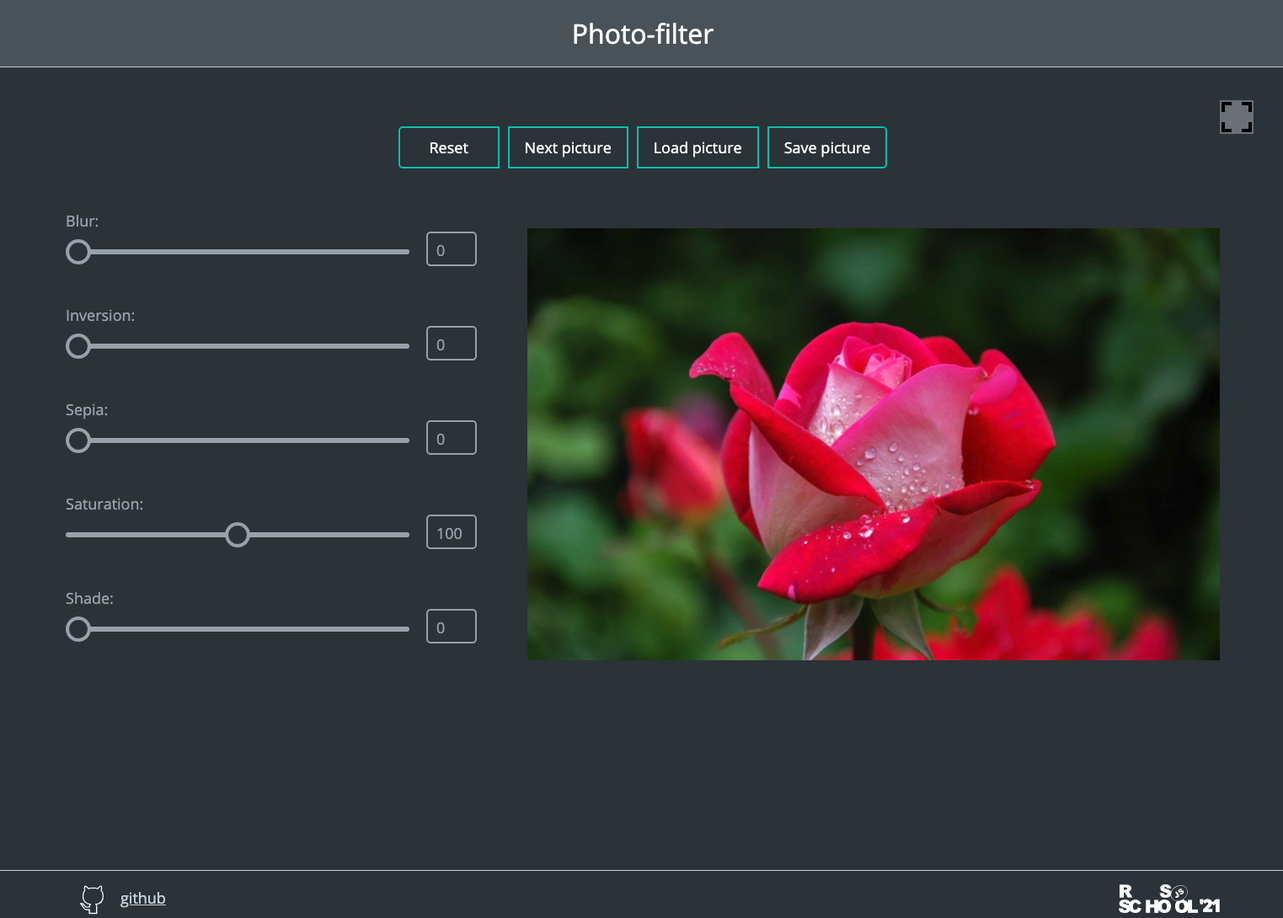
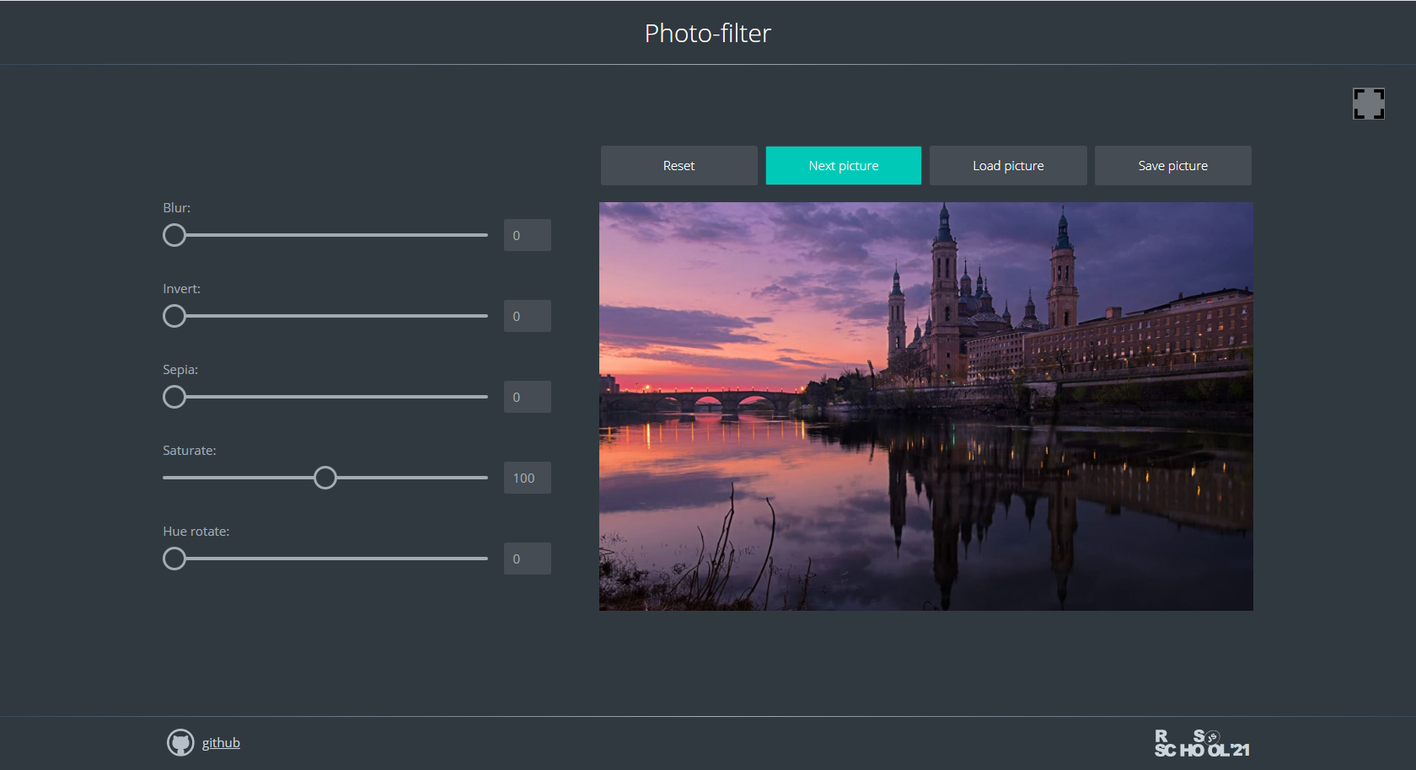
feat: add materials

diff --git a/tasks/photo-filter-hints.md b/tasks/photo-filter-hints.md
@@ -4,12 +4,12 @@
 
 В выполнении задания поможет видео курса JS30 [CSS Variables](https://youtu.be/AHLNzv13c2I), ссылка на которое приводится в материалах к заданию. В нём автор выполняет приложение, реализующее часть функциональности предлагаемого проекта. [Код проекта](https://github.com/wesbos/JavaScript30/tree/master/03%20-%20CSS%20Variables).
 
-Предложенное автором решение можно усовершенствовать применив делегирование и отслеживая только одно событие `input` вместо двух событий `change` и `mousemove`, которые отслеживает автор.
+Предложенное автором решение можно усовершенствовать применив делегирование и отслеживая для изменения значения ползунка только одно событие `input` вместо двух событий `change` и `mousemove`.
 
 Ниже о некоторых особенностях выполнения задания.
 
 ### input type="range"
-Элемент `<input>` имеет больше 20 разных типов. Каждый из них предназначен для решения определённой задачи. В предложенном задании будем использовать `input type="range"` - ползунок, при помощи которого удобно менять значение.
+Элемент `<input>` имеет больше 20 разных типов. Каждый из них предназначен для решения определённой задачи. В предложенном задании используется `input type="range"` - ползунок, при помощи которого удобно менять значение.
 
 В html-коде приводится пример такого элемента:
 
@@ -17,42 +17,52 @@
   <input type="range" name="sepia" min="0" max="100" value="0" data-sizing="%">
 ```
 
-Здесь указаны минимальное, максимальное и текущее значение, а также использован data-атрибут, который указывает на размерность определяемых в `<input>` значений, он нам позже пригодится при написании js-кода.
+Здесь указаны минимальное, максимальное и текущее значение, а также использован data-атрибут, который указывает на размерность определяемых в `input type="range"` значений, он нам позже пригодится при написании js-кода.
 
-Получить текущее значение `input type="range"` в js достаточно просто - это `input.value`.  Узнать, что значение изменилось, тоже не сложно, при помощи метода `addEventListener` отслеживаем событие `input` (да, немного запутанно называть одним и тем же словом и html-элемент и js-событие. ну как есть).
+Получить текущее значение `input type="range"` в js достаточно просто - это `input.value`.  Узнать, что значение изменилось, тоже не сложно, при помощи метода `addEventListener` отслеживаем событие `input` (да, немного запутанно называть одним и тем же словом и html-элемент и js-событие, ну как есть).
 
-О чём вам желательно вспомнить - о делегировании, то есть не навешивать слушатель на каждый ползунок, а отслеживать событие на их общем родителе.
+Для отображения значения css-фильтров, используем элемент `output`. Чтобы присвоить ему значение, указываем его как `output.value`.
 
-Так как в предложенной разметке у `<input>` нет классов (плохо, знаю, но к такому тоже нужно быть готовыми), метод `element.matches('css')` позволит определить соответствует ли элемент, на котором произошло событие, указанному css-селектору.
+О чём желательно помнить - о делегировании, то есть не навешивать слушатель на каждый ползунок, а отслеживать событие на их общем родителе.
+
+Так как в предложенной разметке у тегов `<input>` нет классов (к такому тоже нужно быть готовыми), метод `element.matches('css')` позволит определить соответствует ли элемент, на котором произошло событие, указанному css-селектору.
 
 ### CSS Filters 
-Про фильтры читаем [здесь](https://css-tricks.com/almanac/properties/f/filter/)
-и [здесь](https://orangeable.com/css/filters) (эти же ссылки есть в материалах к заданию. можно просто посмотреть картинки). Тем, кто предпочитает статьи на русском, про фильтры можно почитать [здесь](https://webformyself.com/filtry-v-css-razmytie-ottenki-serogo-yarkost-i-mnogo-drugix-effektov-v-css/)
+Про фильтры можно прочитать (или просто посмотреть картинки)  [здесь](https://css-tricks.com/almanac/properties/f/filter/) и [здесь](https://orangeable.com/css/filters) (эти же ссылки есть в материалах к заданию). Тем, кто предпочитает статьи на русском, про фильтры можно почитать [здесь](https://webformyself.com/filtry-v-css-razmytie-ottenki-serogo-yarkost-i-mnogo-drugix-effektov-v-css/).
 
-Если коротко, фильтры - это красиво. В разработке они могут применяться для добавления различных эффекта, мы их используем для создания редактора фото.
+Если коротко, фильтры - это красиво. В разработке они могут применяться для добавления различных эффектов элементам, мы их используем для создания редактора фото.
 
 ### CSS-переменные
-Статьи о css-переменных есть в материалах к заданию. Они удобные, и научиться их использовать полезно. Советую потратить какое-то время и попытаться с ними разобраться, в дальнейшем это позволит ускорить разработку, избежать дублирования стилей. Одно из преимуществ css-переменных - их удобно менять через JavaScript. Благодаря им в нашем приложении вместо отдельной функции для каждого css-фильтра можем написать одну универсальную функцию для смены значения любого фильтра. Как она выглядит показано в видео курса JS30 [CSS Variables](https://youtu.be/AHLNzv13c2I). Единственное, нужно будет немного видоизменить функцию в связи с делегированием, вы ведь его используете, правда?
+Статьи о css-переменных есть в материалах к заданию. Они удобные, и научиться их использовать полезно. Было бы хорошо потратить какое-то время и попытаться с ними разобраться, в дальнейшем это позволит ускорить разработку, избежать дублирования стилей. Одно из преимуществ css-переменных - их удобно менять через JavaScript. Благодаря им в нашем приложении вместо отдельной функции для каждого css-фильтра можем написать одну универсальную функцию для смены значения любого фильтра. Как она выглядит показано в видео курса JS30 [CSS Variables](https://youtu.be/AHLNzv13c2I). Единственное, нужно будет немного видоизменить функцию в связи с делегированием.
 
 ### Загрузка изображения по ссылке 
 Загрузка изображения по ссылке средствами js не представляет проблем и сводится к смене ссылки на изображение, которое отображается на странице. Единственный момент, который нужно учесть, изображение вначале загружается и только потом отображается на странице. Изображение не должно загружаться на глазах пользователя отображаясь на странице по частям.
 
 Необходимо отслеживать процесс загрузки изображения, событие `load`. Как это происходит и где используется можно посмотреть в [примере на codepen](https://codepen.io/irinainina/pen/abzwapy). 
 
-Изображения разделены тематически по времени суток. Каждый период находится в своей папке по указанной ссылке day, nigth и т.д. Неодбходимо определить текущее время суток и сформировать ссылку на соответствующую папку с коллекцией изображений. В каждой папке по 20 изображений.
+Неодбходимо определить текущее время суток и сформировать ссылку на соответствующую папку с коллекцией изображений. 
 
 ### Загрузка изображения c компьютера
 На момент создания js работать с файловой системой не умел. Предполагалось, что это ему не понадобится. Но сейчас 2021 год, у разработчиков намного больше возможностей, и загрузка локальных файлов перестала быть проблемой.
 
 Нам понадобится `<input type="file">` - представитель многочисленного семейства инпутов, предназначенный для загрузки файлов и объект `FileReader` предназначенный для чтения файлов.
 
-Здесь можно посмотреть [пример на codepen](https://codepen.io/irinainina/pen/WNopwQr) с загрузкой изображений с компьютера.
+Здесь можно увидеть [пример на codepen](https://codepen.io/irinainina/pen/WNopwQr) с загрузкой изображений с компьютера.
 
 ### Сохранение изображений на компьютер
-Для сохранения изображений удобнее всего использовать Canvas API.  
-С его помошью рисуют в окне браузера, делают игры. Мы с его помощью сохраним изображение.
+С появлением HTML5 и до 2018 года для загрузки файлов в т.ч изображений на компьютер, достаточно было кликнуть по ссылке вида 
+```html
+  <a href="link_to_image" download="image.png">
+```
+В 2018 году усилились требования к безопасности. Ссылка для скачивания файлов осталась прежней, но добавилось условие: файл, который скачивается, должен находиться на том же ресурсе, на котором находится ссылка на его скачивание.
+
+Но по условию задания нам необходимо загружать в приложение и сохранять фото, полученные по ссылке из внешних ресурсов. То есть нужно каким-то образом сделать чужое фото своим и получить на него внутреннюю ссылку, находящуюся на том же домене, на котором будет размещаться созданное приложение. С этой целью используем Canvas API. 
 
 #### Отображаем изображение на canvas
+С помошью Canvas API создают приложение для рисования, отображают графики, делают игры. Мы с его помощью сохраним изображение. Для этого нам необходимо отобразить изображение на canvas и получить на него ссылку.
+
+**Пример**
+
 В html-файле создадим элемент `canvas`
 ```html
   <canvas></canvas>
@@ -65,8 +75,8 @@
     height: 500px;
   }
 ```
-В js-файле пишем код 
-```
+В js-файле напишем следующий код 
+```js
   const canvas = document.querySelector('canvas');
 
   function drawImage() {
@@ -82,28 +92,27 @@
   }
   drawImage();
 ```
-Мы создали изображение. Указали ему ссылку. Указали что внутренний размер canvas равен размеру изображения. Задали контекст рисования `ctx` и при помощи метода `ctx.drawImage` отобразили на канвасе изображение. 
+Что происходит в функции `drawImage()` построчно
+1. Мы создали изображение. 
+2. Указали ему атрибуты `crossOrigin` и `anonymous`. Первый говорит о том, что изображение. которое будет отображено на canvas, получено с другого сайта, второй, что для его отображения нет необходимости авторизовываться на ресурсе, с которого оно загружается.
+3. Указали ему ссылку. 
+4. Дождались загрузки изображения
+5. Указали, что внутренний размер canvas равен размеру изображения. 
+7. Задали контекст рисования `ctx` 
+8. При помощи метода `ctx.drawImage` отобразили изображение на canvas. 
 
-**Обратите внимание**
-- приведённые в примере размеры канваса искажают пропорции изображений, делают их квадратными. Подумайте, как эти размеры можно указать более корректно. Хоть возможно вы решите вообще не отображать canvas на странице, производя все манипуляции с ним скрыто от пользователя.
-
-#### Скачиваем изображение на компьютер
-Находим элемент кнопки 
-```js
-const save = document.querySelector('.btn-save');
-```
-
-В js-файле пишем функцию
-```js
-function downloadImage() {
-  const dataURL = canvas.toDataURL("image/jpeg");
-  const link = save;
-  link.href = dataURL;
-}
-```
-Запускаем функцию `downloadImage` внутри функции `drawImage`.
-Функцию `drawImage` запускаем по событию `click` соответствующей кнопки.
 [Пример кода на codepen](https://codepen.io/irinainina/pen/JjbWXgq)
 
+**Обратите внимание**
+- приведённые в примере размеры канваса искажают пропорции изображений, делают их квадратными. Подумайте, как эти размеры можно указать более корректно. Хоть возможно вы решите вообще не отображать canvas на странице, производя все манипуляции с ним скрыто от пользователя
+- предложенный способ будет работать если на сайте, с которого получаем изображение,  правильно настроены заголовки, которые разрешают использовать контент сайта на других ресурсах. Как решать проблему, если заголовки настроены неправильно (устаревший сайт, неопытные разработчики) рассмотрим в следующем задании. Пока будем просто получать картинки с Википедии или гитхаба, для которых проблем с получением изображений нет.
+
+#### Скачиваем изображение на компьютер
+Ссылка на изображение, отрисованное на canvas
+```js
+  const dataURL = canvas.toDataURL("image/jpeg");
+```
+В [примере на codepen](https://codepen.io/irinainina/pen/JjbWXgq) приводится функция `downloadImage()`, которая может помочь со скачиванием изображения на компьютер
+
 #### Сохранение изображения вместе с примененными фильтрами
-У canvas также есть фильтры. Про фильтры canvas можно почитать [здесь](https://developer.mozilla.org/en-US/docs/Web/API/CanvasRenderingContext2D/filter)  
+У canvas есть фильтры. Про фильтры canvas можно почитать [здесь](https://developer.mozilla.org/en-US/docs/Web/API/CanvasRenderingContext2D/filter)  

diff --git a/tasks/photo-filter.md b/tasks/photo-filter.md
@@ -4,60 +4,60 @@
 | ------------| ---------------- | ------------- | ------------- |
 | 23.03.2021  | 29.03.2021 23:59 | photo-filter  | photo-filter  |
 
-В первую очередь ознакомьтесь с [инструкцией к заданию](tasks/js-projects.md) 
-
 ## Task 2. photo-filter
 
 ![screenshot](images/photo-filter.png)
 
-[Демо](https://www.cssfiltergenerator.com/)
+[Демо](https://rolling-scopes-school.github.io/stage1-tasks/photo-filter/
 
 [Файлы проекта](https://github.com/rolling-scopes-school/stage1-tasks/tree/photo-filter/photo-filter)
 
 [Советы по написанию кода](tasks/photo-filter-hints.md)
 
-В ходе выполнения задания вам необходимо создать приложение позволяющее наложить css-фильтры на фото. Фото в приложение можно загрузить с компьютера, сменить на подключенное по ссылке. Также есть возможность скачать фото с наложенными фильтрами на компьютер. 
+[Инструкция к stage1 js-projects](tasks/js-projects.md)
+
+В ходе выполнения задания вам необходимо создать приложение позволяющее добавить изображению css-фильтры. Фото в приложение можно загрузить с компьютера или по url. Фото с добавленными фильтрами можно скачать на компьютер. 
 
 ## Структура и работа приложения
 - на странице отображается фото и настройки css-фильтров в виде ползунков, каждому из которых соответствует определённый css-фильтр
-- есть возможность сборсить настройки css-фильтров, кнопка Reset
-- фото в приложение можно загрузить с компьютера, для этого в приложении есть кнопка Load picture
-- есть возможность смены картинок, подключенных по ссылке, кнопка Next picture
-- есть возможность скачать фото с наложенными фильтрами на компьютер, для этого в приложении есть кнопка Save picture
+- кнопка Reset позволяет сбросить настройки css-фильтров
+- кнопка Next picture предназначена для смены изображений, которые загружаются с внешнего ресурса по ссылке
+- кнопка Load picture для загрузки фото с компьютера 
+- кнопка Save picture позволяет скачать фото с добавленными фильтрами на компьютер
 
 ## Функциональность приложения
 - напротив каждого ползунка есть окно, в котором отображается значение соответствующего css-фильтра. при перемещении ползунка значение изменяется
 - при перемещении ползунка меняется внешний вид фото в соответствии с изменением значения соответствующего css-фильтра
-- при клике по кнопке Reset, сбрасываются значения всех css-фильтров, соответственно положение ползунков, значения в соответствующих окошках и внешний вид фото
-- при нажатии на кнопку Next picture, загружается следующая картинка из списка картинок, подключенных по ссылке. Ссылку на картинки берем [здесь](https://raw.githubusercontent.com/rolling-scopes-school/stage1-tasks/assets/images/). Картинка должна соответствовать текущему времнени суток:
+- при клике по кнопке Reset, сбрасываются значения всех css-фильтров, соответственно возвращаются к исходному состоянию положение ползунков, значения в соответствующих окошках и внешний вид фото
+- при нажатии на кнопку Next picture, загружается следующая картинка из списка картинок, подключенных по ссылке. Ссылку на картинки берем [здесь](https://raw.githubusercontent.com/rolling-scopes-school/stage1-tasks/assets/images/). Изображения разделены тематически по времени суток. Каждый период находится в своей папке по указанной ссылке day, nigth и т.д. В каждой папке 20 изображений. После последнего изображения загружается первое. Картинки должны соответствовать текущему времнени суток:
   + с 6 утра до 12 дня - утро
   + с 12 дня до 6 вечера - день
   + с 6 вечера до 12 ночи - вечер
   + с 12 ночи до 6 утра - ночь
-- при клике по кнопке Load picture открывается окно выбора файлов на компьютер, выбранное фото отображается в приложении
-- при клике по Save pictur фото загружается на компьютер вместе с наложенными фильтрами
+- при клике по кнопке Load picture открывается окно выбора файлов на компьютере, выбранное фото отображается в приложении. Пропорции фото не искажены
+- при клике по Save pictur фото загружается на компьютер вместе с добавленными фильтрами
+- есть кнопка Fullscreen при клике по которой можно развернуть приложение во весь экран. Повторный клик по кнопке выводит приложение из полноэкранного режима. В зависимости от того, находится приложение в обычном или полноэкранном режиме, меняется иконка на кнопке
 
 ## Критерии оценки
 
-**Максимальный балл за задание +50**
+**Максимальный балл за задание +60**
 - реализовано не меньше 5 ползунков для настройки css-фильтров. Возле каждого ползунка отображается его актуальное значение +5
-- при перемещении ползунка меняется внешний вид фото в соответствии с изменением значения соответствующего css-фильтра +5
+- при перемещении ползунка меняется внешний вид фото в соответствии с изменением значения соответствующего css-фильтра +10
 - реализован сброс css-фильтров +5
-- реализована возможность смены картинок, подключенных по ссылке +5
+- реализована возможность смены картинок, подключенных по ссылке +10
 - подключенная картинка соответствует текущему времени суток +5
 - изображение можно загрузить с локального компьютера +10
 - изображение можно скачать на компьютер +10
 - изображение скачивается на компьютер с применёнными фильтрами +5
+- не реализована кнопка Fullscreen, позволяющая развернуть приложение во весь экран -5
 
 ## Ключевые навыки
 - использование js для загрузки локальных файлов на веб-страницу
 - использовать js для сохранения сanwas как изображения на компьютер
-- работа Датами в js
+- работа датами в js
 - Canwas API
 
-
 ## Материалы:
-
 ### Теория
 - [input](https://developer.mozilla.org/ru/docs/Web/HTML/Element/Input)
 - [input type="range"](https://developer.mozilla.org/ru/docs/Web/HTML/Element/Input/range)
@@ -75,10 +75,10 @@
 
 ### Демо для вдохновения
 - [Магия фильтров: 9 интересных приложений для обработки фото](https://asn24.ru/sova/community/magiya-filtrov-9-interesnykh-prilozheniy-dlya-obrabotki-foto-v-instagram/)
-
+- [CSSFilterGenerator](https://www.cssfiltergenerator.com/)
 
 [Документ для вопросов](https://docs.google.com/spreadsheets/d/1dMDLBC4-1XPaVMehZB6DqetToXZhq4x0PiZtj-jvLRc/edit#gid=487334651)
 
 ## Cross-check
 - инструкция по проведению cross-check: https://docs.rs.school/#/cross-check-flow
-- ссылки на лучшие работы, добавьте, пожалуйста, в эту форму [https://forms.gle/QELfqGDNCaPLHMzo9](https://docs.google.com/forms/d/e/1FAIpQLSc7DQoF0U4lB2qdMceofIl1F59UFS-pQAfQfJwcAc4nIXn31g/viewform?usp=sf_link)
+- ссылки на лучшие работы с дополнительным функционалом либо авторским качественным оформлением добавьте, пожалуйста, в эту форму [https://forms.gle/QELfqGDNCaPLHMzo9](https://docs.google.com/forms/d/e/1FAIpQLSc7DQoF0U4lB2qdMceofIl1F59UFS-pQAfQfJwcAc4nIXn31g/viewform?usp=sf_link)

diff --git a/tasks/js-projects.md b/tasks/js-projects.md
@@ -7,26 +7,27 @@
 5. [map-game](tasks/map-game.md)
 
 Для того, чтобы помочь вам выполнить задание, в его описании кроме перечня требований и критериев оценки также могут присутствовать:
-- демо приложения. Обратите внимание, демо - не идеальный пример, а рабочий прототип того, что должно получиться в итоге. Его задача - уточнить требования задания, сделать их более понятными.
-- html и css-файлы, медиа-файлы (звуки, видео, иконки, изображения), чтобы вы могли сосредоточиться на js-коде. Если в описании задания есть такие файлы, их можно скопировать и использовать без изменений.  
-  Что еще можно:  
-  - можно вносить в них правки. 
-  - можно полностью их изменить или вообще не использовать.
-- советы по написанию приложения. Это не инструкции и не требования, следовать им не обязательно.
+- демо приложения. Обратите внимание, демо - не идеальный пример, а рабочий прототип того, что должно получиться в итоге. Его задача - уточнить требования задания, сделать их более понятными. 
+- html и css-файлы, медиа-файлы (звуки, видео, иконки, изображения), чтобы вы могли сосредоточиться на js-коде. Если в описании задания есть такие файлы, вы можете
+  - скопировать их и использовать без изменений
+  - вносить в них правки 
+  - полностью их изменить или вообще не использовать.
+- советы по написанию кода приложения. Это не инструкции и не требования, следовать им не обязательно. Советы предназначены для тех, у кого возникают сложности с выполнением задания. Если у вас есть знания и опыт, для вас будет полезнее выполнить задание полностью самостоятельно.
 - ссылки на материалы, которые могут быть вам полезными
+- документ для вопросов. В нём можно задать вопрос по содержанию задания. Не как выполнить требование, а что именно требуется. В этом документе на вопросы отвечают авторы задания и ментор, отвечающий за таск. Данный документ является частью техзадания, перед сабмитом задания рекомендуется перечитать заданные вопросы и ответы на них и убедиться, что вы правильно поняли требования задания. 
 
 **Ваша задача** - создать своё собственное приложение. При этом html и css-код с целью экономии времени можно скопировать полностью. Предполагается, что html и css вы уже знаете или выучите в ходе выполнения других заданий. Ваша цель - научиться писать js-код. Его необходимо написать **самостоятельно**, весь полностью, от первого до последнего символа.
 
 ## Этапы работы над проектом
 - внимательно прочитайте задание. Не приступайте к работе без четкого понимания требований ТЗ
-- прочитайте советы по написанию приложения
+- прочитайте советы по написанию кода приложения
 - просмотрите указанные в задании дополнительные материалы
 - склонируйте себе на компьютер файлы приложения, поместите их в папку со своим проектом. html и css-код можно оставить без изменений
 - создайте новый пустой js-файл, подключите его к html
 - выполняйте задание по частям, каждая из которых - выполнение одного из пунктов требований ТЗ
 - протестируйте созданное приложение в разных режимах работы, выявите баги и неточности, постарайтесь их устранить
 - если есть время и желание, можно дополнить и улучшить оформление, функционал, качество кода проекта
-- перечитайте ещё раз требования ТЗ, перечитайте [Документ для вопросов](https://docs.google.com/spreadsheets/d/1dMDLBC4-1XPaVMehZB6DqetToXZhq4x0PiZtj-jvLRc/edit#gid=1972614983)
+- перечитайте ещё раз требования ТЗ, перечитайте документ для вопросов, убедитесь, что правильно поняли требования ТЗ и выполнили их
 - сделайте самооценку своей работы
 - если есть возможность, запишите небольшое видео для проверяющих с самооценкой созданного проекта. Ссылку на видео прикрепите в футер приложения
 
@@ -64,4 +65,4 @@
 ## Критерии оценки
 - критерии оценки задания указываются в самом задании
 - студентами в ходе кросс-чека оцениваются только функциональные требования
-- спорные случаи (подозрение на списывание, работы с нечитаемым js-кодом, работы с использованием jQuery, работы с крайне низким качеством оформления) рассматриваются администрацией в индивидуальном порядке. За такие работы выставляется 0 баллов (не студентами в коде кросс-чека, а администрацией)
+- спорные случаи (подозрение на списывание, работы с нечитаемым js-кодом, работы с использованием jQuery, работы с крайне низким качеством оформления) рассматриваются администрацией в индивидуальном порядке. За такие работы выставляется 0 баллов (не студентами в коде кросс-чека, а администрацией). За списывание студент может быть отчислен.

diff --git a/tasks/index.md b/tasks/index.md
@@ -9,7 +9,7 @@
 | 3 |Test: Git Basic                        |Git       | Auto-Test    | 100 х 0.1 = 10  | 30.03.21  |05.04.21|
 | 4 |[codewars#1](tasks/codewars.md)        |JavaScript| Auto-Test    | 65 х 0.2 = 13   | 02.03.21  |29.03.21|
 | 5 |[virtual-piano](tasks/virtual-piano.md)|JavaScript| Cross-Check  | 40 х 1 = 40     | 16.03.21  |22.03.21|
-| 6 |[photo-filter](tasks/photo-filter.md)  |JavaScript| Cross-Check  | 50 х 1 = 40     | 23.03.21  |29.03.21|
+| 6 |[photo-filter](tasks/photo-filter.md)  |JavaScript| Cross-Check  | 60 х 1 = 40     | 23.03.21  |29.03.21|
 | 8 |[relax-app](tasks/relax-app.md)        |JavaScript| Cross-Check  | 40 х 1 = 40     | 30.03.21  |05.04.21|
 | 9 |[map-game](tasks/map-game.md)          |JavaScript| Cross-Check  | 40 х 1 = 40     | 06.04.21  |12.04.21|
 |   |                                       |          | **Всего**    | **403 балла**   |           |        |
